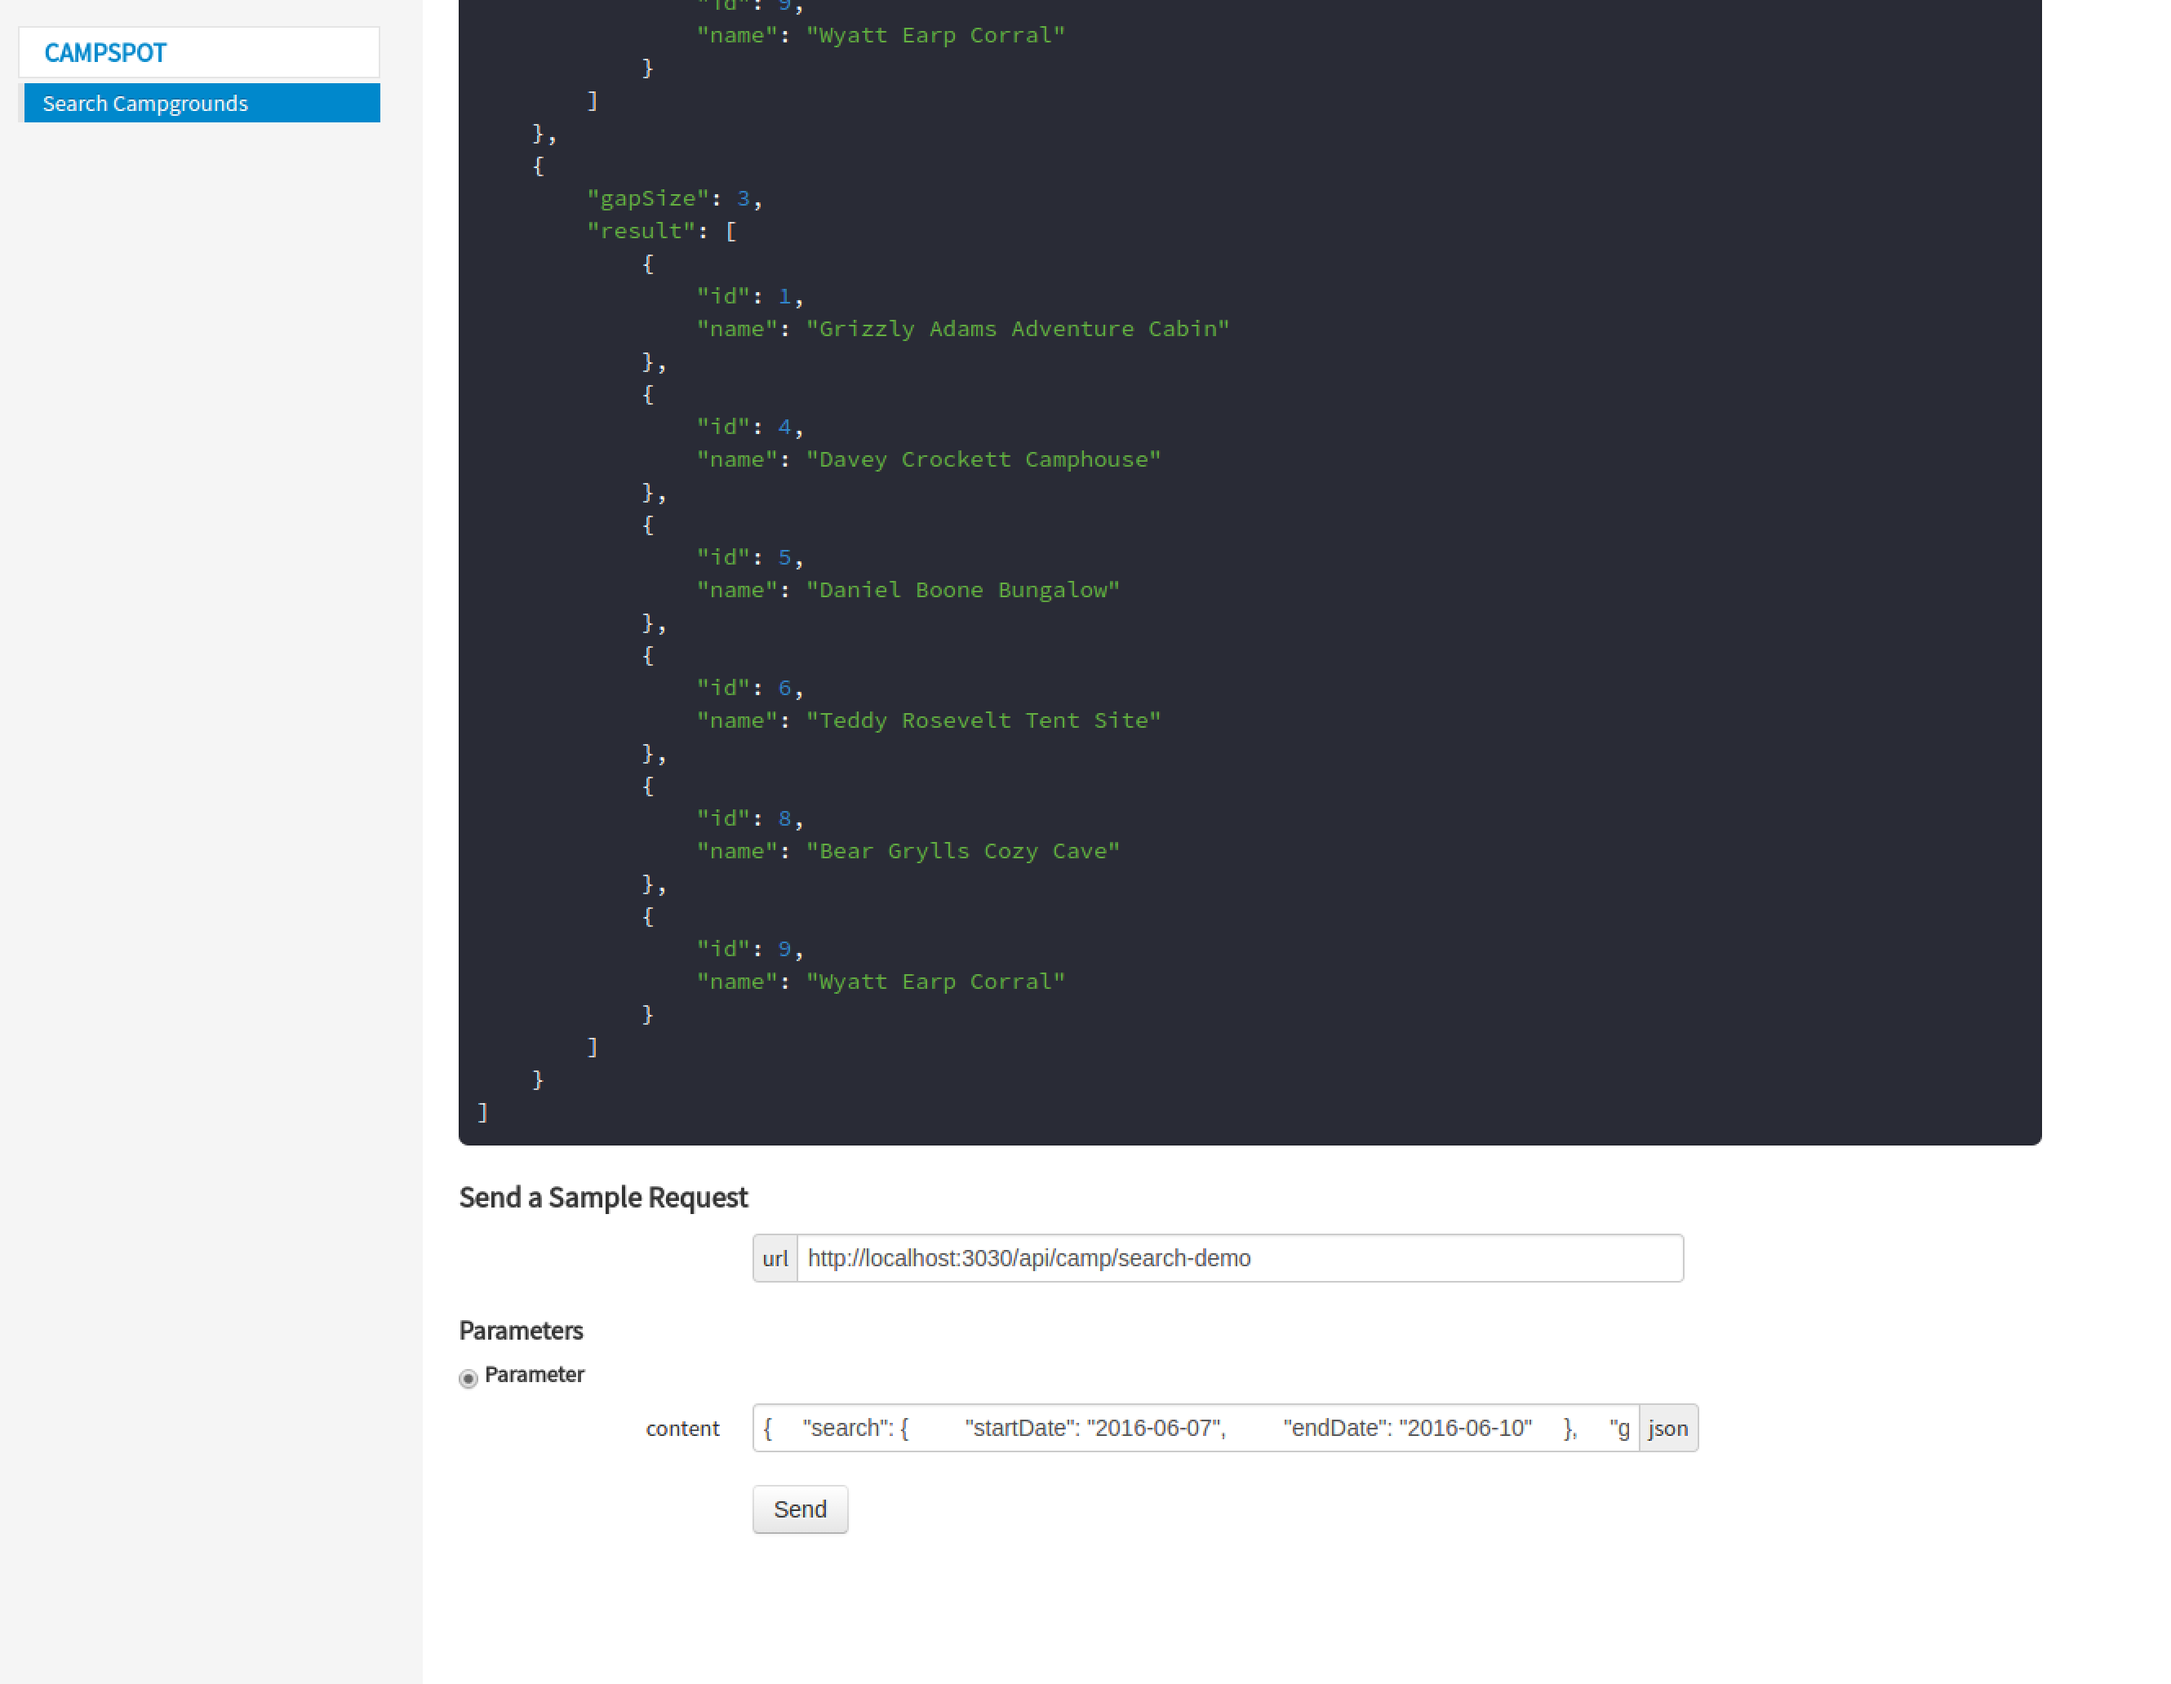
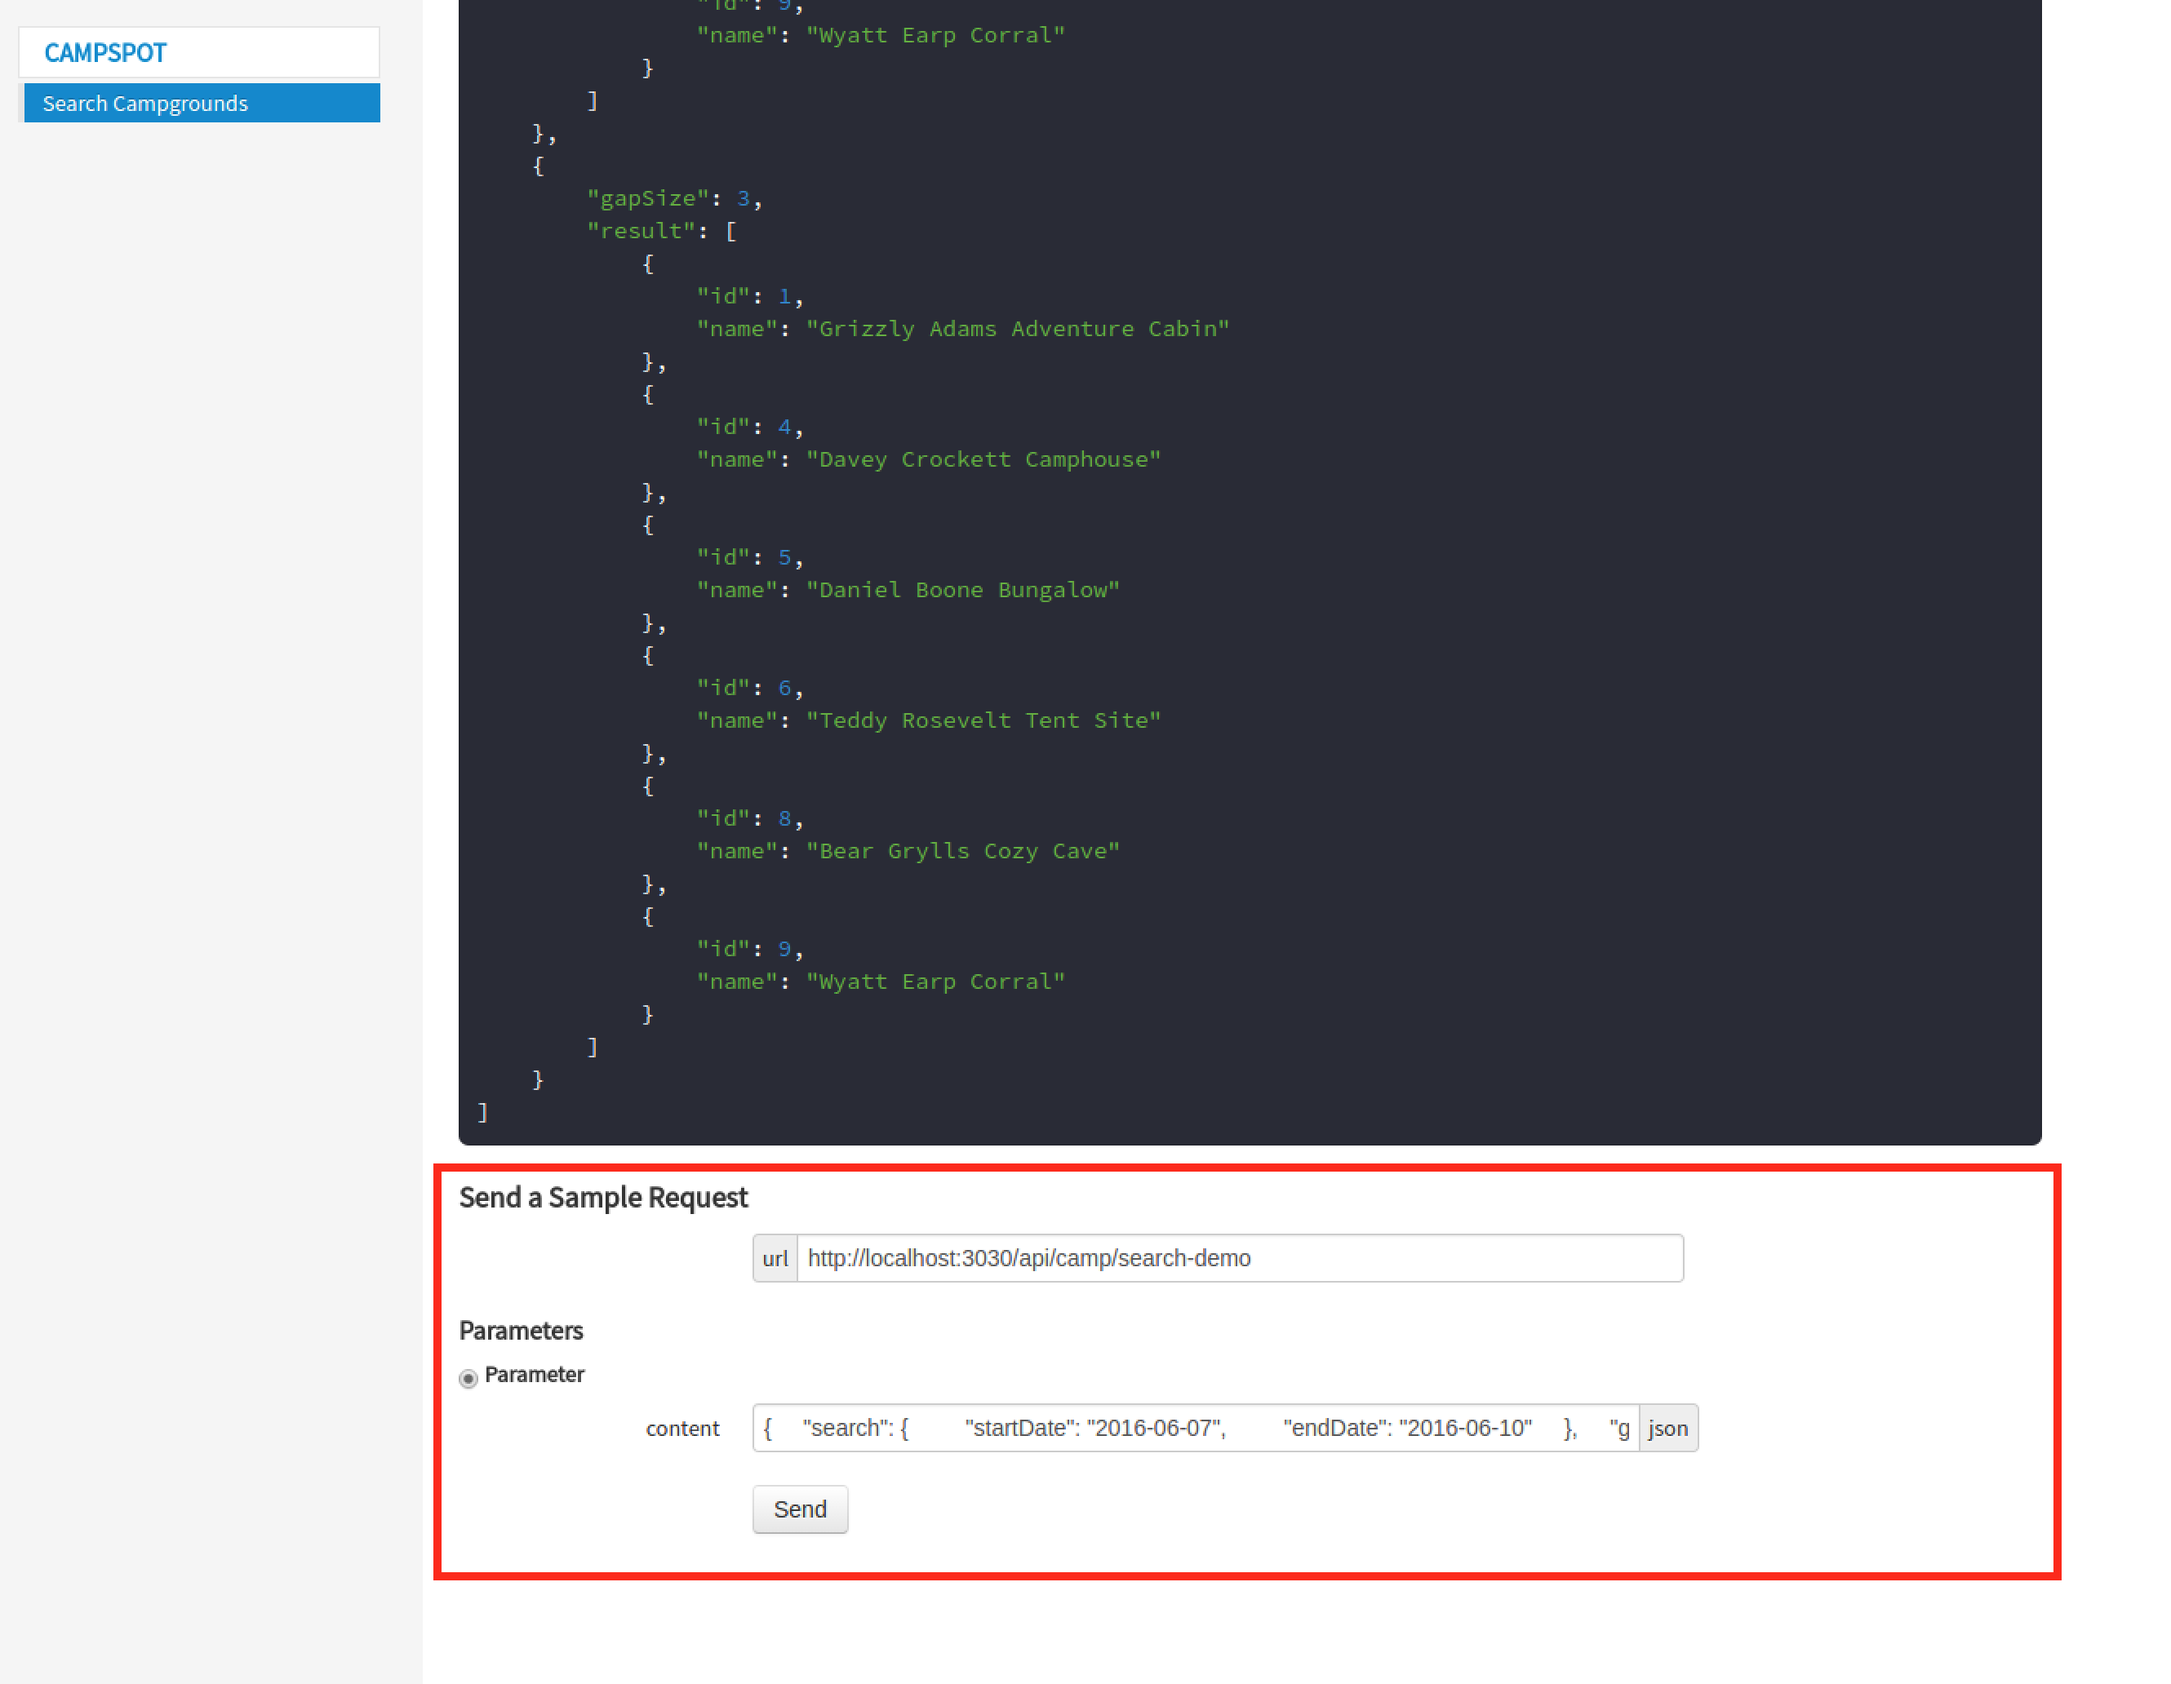
release candidate for API and docs

Changed region(s): [[0.1872, 0.6822, 0.9673, 0.9612]]

diff --git a/README.md b/README.md
@@ -1,21 +1,30 @@
 # campspot-node
 
+#### Approach Document and How To 
+
+The approach in the following PDF will explain the challenge and the 
+decisions made. The rest of this readme will be a better source for the project
+layout and tech side. You can find the approach document here:
+
+[Approach Document and Explanation](documentation/img/CampspotAPIHowTo.pdf)
+
+
 #### Instructions to run the app:
 
-First, clone this git repository
+**First, clone this git repository**
 ```sh
 git clone --depth=1 https://github.com/virtualadrian/campspot-node campspot-node
 cd campspot-node
 ```
 
 
-Restore packages and dependencies
+**Restore packages and dependencies**
 ```sh
 npm install
 ```
 
 
-How To Start The Application:
+**How To Start The Application:**
 ```sh
 # requires gulp to be installed globally
 npm i -g gulp
@@ -26,13 +35,28 @@ gulp serve
 
 Running 'gulp serve' will also open the API runner, and extra docs:
 
-![API Runner](https://octodex.github.com/images/yaktocat.png)
+- - -
 
-There is also additional information about the approach in the following PDF:
+![API Runner](documentation/img/campspotapirunner.png)
 
-[Approach Document and Explanation](http://github.com)
+- - -
 
-How To Execute Unit Tests
+The API Runner provides sample payloads, a 'How-To' on getting started, and how to easily test the API. The easiest 
+way is to use the form at the bottom of the page, while 'gulp serve' is running and subit a few payloads
+with the provided form. 
+
+- - -
+
+![API Runner Form](documentation/img/campspotapiform.png)
+
+- - -
+
+An additional choice and a personal favorite is 
+[Postman, a Google Chrome Application](https://chrome.google.com/webstore/detail/postman/fhbjgbiflinjbdggehcddcbncdddomop)
+ this will provide the most versatility when running this API and others in the future.
+
+
+**How To Execute Unit Tests**
 ```sh
 # run tests
 gulp mocha
@@ -41,8 +65,38 @@ gulp mocha
 gulp mocha --nolint
 ```
 
+Running the tests will also lint the code, if you make a change and just want to run the unit test
+without worrying about lint, then the second command I provided is there. However, keep in mind
+that this should not be the rule but the exception. As Uncle Ben said: "With great power comes great responsibility." :)
 
-Other gulp tasks:
+Once the tests run the console will display the results of the task:
+
+- - -
+
+![gulp mocha console](documentation/img/campspotmocha.png)
+
+- - -
+
+The mocha task will also launch the coverage report in your default browser. Here you can inspect the detail
+of the istanbul coverage reporter. The first screen offers a summary:
+ 
+- - -
+
+![gulp mocha console](documentation/img/campspotistanbuloverview.png)
+
+- - -
+
+You can also drill into specific files to see why your code coverage is DEVASTATINGLY AWESOME!!!  or sad and bleak. 
+Just click the file you want to inspect.
+
+- - -
+
+![gulp mocha console](documentation/img/campspotistanbuldetail.png)
+
+- - -
+
+
+**Other gulp tasks:**
 ```sh
 # Default task: Wipes out dist and coverage directory. Compiles using babel.
 gulp
